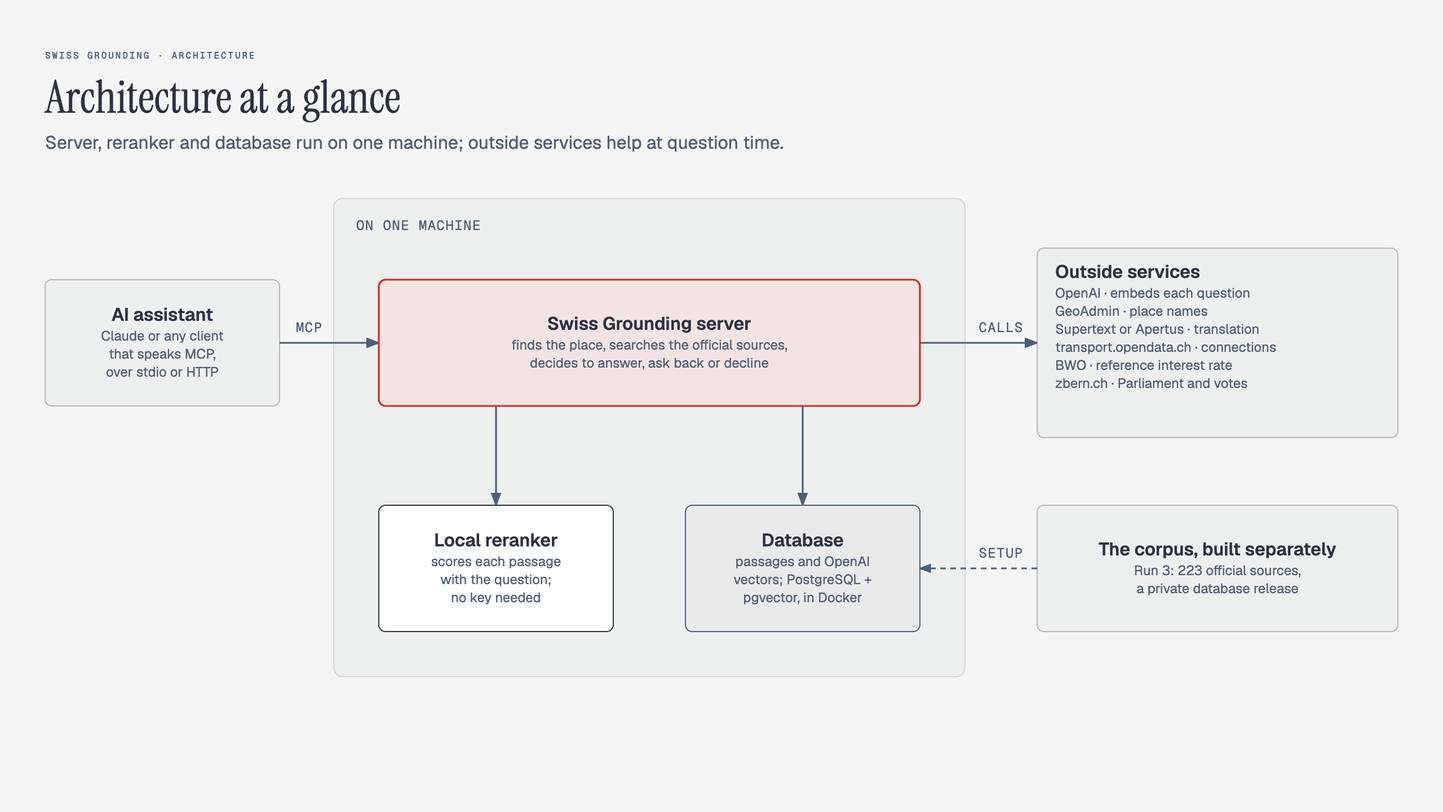
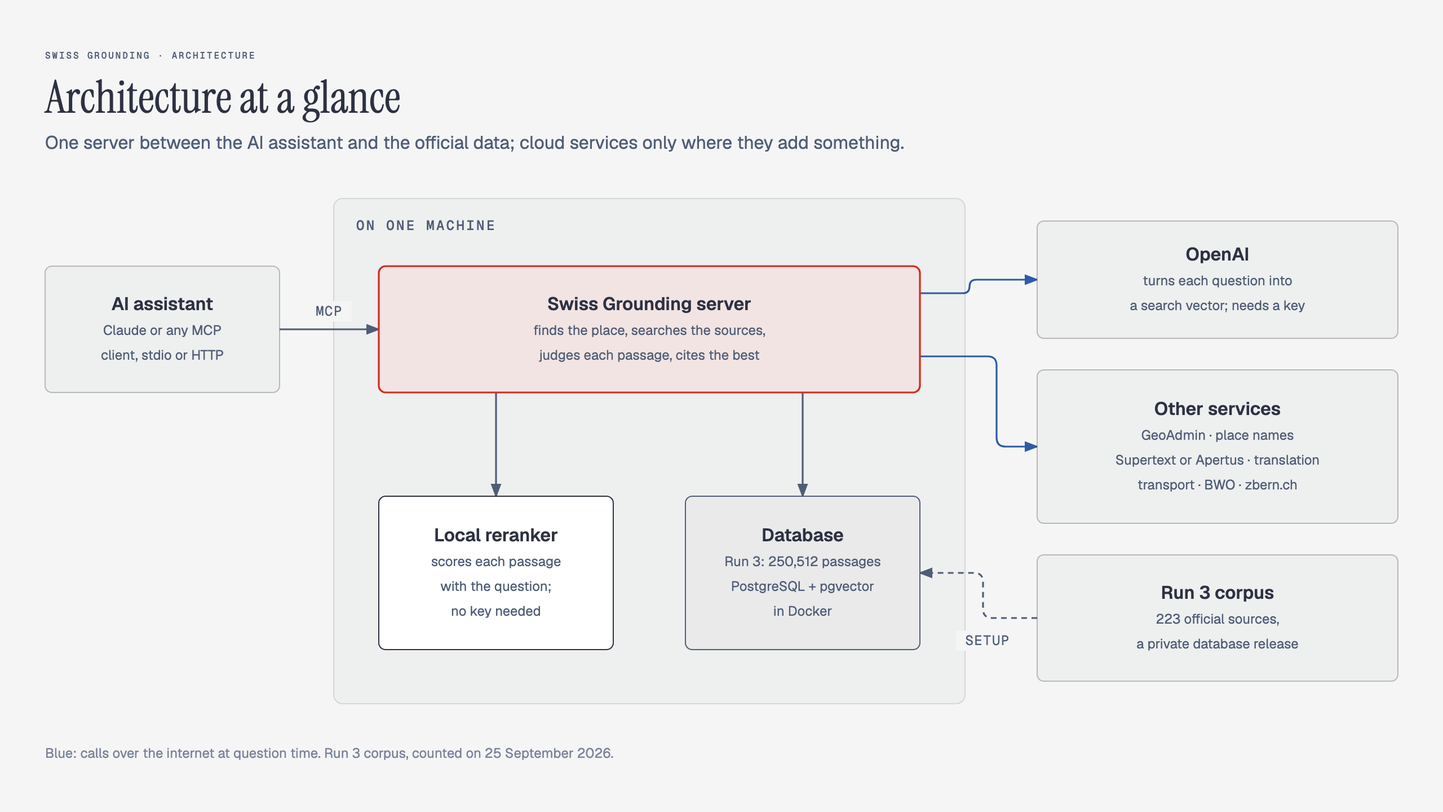
docs: jury slides for architecture, deployment and one question end to end
Slide 17 is redrawn for the Run 3 setup (OpenAI question vectors, local
reranker, Apertus as a translation option). Slide 23 shows where each
part runs: laptop, private GitHub release, cloud APIs. Slide 24 follows
challenge question 2 from the user's words to the cited vd.ch passage.

Claude-Session: https://claude.ai/code/session_019M3EyHsViiEBMstvHmv2sU

diff --git a/presentation/diagrams/17-architecture.html b/presentation/diagrams/17-architecture.html
@@ -43,71 +43,56 @@
     <p class="eyebrow">Swiss Grounding · jury deck · slide 17</p>
 <svg viewBox="0 0 1280 720" xmlns="http://www.w3.org/2000/svg" role="img" aria-labelledby="architecture-title architecture-desc">
 <title id="architecture-title">Architecture at a glance</title>
-<desc id="architecture-desc">Any AI assistant connects over MCP to the Swiss Grounding server, which runs on one machine with a local reranker and a PostgreSQL database in Docker; at question time it calls outside services, OpenAI to embed each question among them; the Run 3 corpus is built separately and restored from a private database release.</desc>
-<defs>
-<marker id="arrow" markerWidth="8" markerHeight="6" refX="7" refY="3" orient="auto"><polygon points="0 0, 8 3, 0 6" fill="#4f5d75"/></marker>
-<marker id="arrow-accent" markerWidth="8" markerHeight="6" refX="7" refY="3" orient="auto"><polygon points="0 0, 8 3, 0 6" fill="#d52b1e"/></marker>
-<marker id="arrow-link" markerWidth="8" markerHeight="6" refX="7" refY="3" orient="auto"><polygon points="0 0, 8 3, 0 6" fill="#2e5aa8"/></marker>
-</defs>
+<desc id="architecture-desc">The AI assistant talks to the Swiss Grounding server over MCP; on the same machine the server uses a local reranker and a PostgreSQL database holding the Run 3 corpus; over the internet it asks OpenAI for question vectors and uses GeoAdmin, Supertext or Apertus, transport, BWO and zbern.ch; the corpus arrives once from a private release.</desc>
+<defs><marker id="arrow" markerWidth="8" markerHeight="6" refX="7" refY="3" orient="auto"><polygon points="0 0, 8 3, 0 6" fill="#4f5d75"/></marker><marker id="arrow-accent" markerWidth="8" markerHeight="6" refX="7" refY="3" orient="auto"><polygon points="0 0, 8 3, 0 6" fill="#d52b1e"/></marker><marker id="arrow-link" markerWidth="8" markerHeight="6" refX="7" refY="3" orient="auto"><polygon points="0 0, 8 3, 0 6" fill="#2e5aa8"/></marker></defs>
 <rect width="100%" height="100%" fill="#f5f5f5"/>
-<!-- zones -->
-<rect x="296" y="176" width="560" height="424" rx="8" fill="rgba(45,49,66,0.03)" stroke="rgba(45,49,66,0.18)" stroke-width="0.8"/>
-<!-- arrows -->
-<path d="M 248,304 L 336,304" fill="none" stroke="#4f5d75" stroke-width="1.6" marker-end="url(#arrow)"/>
-<path d="M 440,360 L 440,448" fill="none" stroke="#4f5d75" stroke-width="1.6" marker-end="url(#arrow)"/>
-<path d="M 712,360 L 712,448" fill="none" stroke="#4f5d75" stroke-width="1.6" marker-end="url(#arrow)"/>
-<path d="M 816,304 L 920,304" fill="none" stroke="#4f5d75" stroke-width="1.6" marker-end="url(#arrow)"/>
-<path d="M 920,504 L 816,504" fill="none" stroke="#4f5d75" stroke-width="1.4" stroke-dasharray="5,4" marker-end="url(#arrow)"/>
-<!-- labels -->
-<rect x="258.4" y="282" width="32" height="16" rx="2" fill="#f5f5f5"/>
-<text x="274.4" y="294.3" fill="#4f5d75" font-size="12" font-family="'Geist Mono', monospace" text-anchor="middle" letter-spacing="0.06em">MCP</text>
-<rect x="862" y="282" width="52" height="16" rx="2" fill="#f5f5f5"/>
-<text x="888" y="294.3" fill="#4f5d75" font-size="12" font-family="'Geist Mono', monospace" text-anchor="middle" letter-spacing="0.06em">CALLS</text>
-<rect x="862" y="482" width="52" height="16" rx="2" fill="#f5f5f5"/>
-<text x="888" y="494.3" fill="#4f5d75" font-size="12" font-family="'Geist Mono', monospace" text-anchor="middle" letter-spacing="0.06em">SETUP</text>
-<!-- nodes -->
-<rect x="40" y="248" width="208" height="112" rx="6" fill="#f5f5f5"/>
-<rect x="40" y="248" width="208" height="112" rx="6" fill="rgba(45,49,66,0.03)" stroke="rgba(45,49,66,0.30)" stroke-width="1"/>
-<text x="144" y="284.4" fill="#2d3142" font-size="16" font-weight="600" font-family="'Geist', sans-serif" text-anchor="middle">AI assistant</text>
-<text x="144" y="302" fill="#4f5d75" font-size="12" font-family="'Geist', sans-serif" text-anchor="middle">Claude or any client</text>
-<text x="144" y="318" fill="#4f5d75" font-size="12" font-family="'Geist', sans-serif" text-anchor="middle">that speaks MCP,</text>
-<text x="144" y="334" fill="#4f5d75" font-size="12" font-family="'Geist', sans-serif" text-anchor="middle">over stdio or HTTP</text>
-<rect x="336" y="248" width="480" height="112" rx="6" fill="#f5f5f5"/>
-<rect x="336" y="248" width="480" height="112" rx="6" fill="rgba(213,43,30,0.08)" stroke="#d52b1e" stroke-width="1.6"/>
-<text x="576" y="292.4" fill="#2d3142" font-size="16" font-weight="600" font-family="'Geist', sans-serif" text-anchor="middle">Swiss Grounding server</text>
-<text x="576" y="310" fill="#4f5d75" font-size="12" font-family="'Geist', sans-serif" text-anchor="middle">finds the place, searches the official sources,</text>
-<text x="576" y="326" fill="#4f5d75" font-size="12" font-family="'Geist', sans-serif" text-anchor="middle">decides to answer, ask back or decline</text>
-<rect x="336" y="448" width="208" height="112" rx="6" fill="#f5f5f5"/>
-<rect x="336" y="448" width="208" height="112" rx="6" fill="#ffffff" stroke="#2d3142" stroke-width="1"/>
-<text x="440" y="484.4" fill="#2d3142" font-size="16" font-weight="600" font-family="'Geist', sans-serif" text-anchor="middle">Local reranker</text>
-<text x="440" y="502" fill="#4f5d75" font-size="12" font-family="'Geist', sans-serif" text-anchor="middle">scores each passage</text>
-<text x="440" y="518" fill="#4f5d75" font-size="12" font-family="'Geist', sans-serif" text-anchor="middle">with the question;</text>
-<text x="440" y="534" fill="#4f5d75" font-size="12" font-family="'Geist', sans-serif" text-anchor="middle">no key needed</text>
-<rect x="608" y="448" width="208" height="112" rx="6" fill="#f5f5f5"/>
-<rect x="608" y="448" width="208" height="112" rx="6" fill="rgba(45,49,66,0.05)" stroke="#4f5d75" stroke-width="1"/>
-<text x="712" y="484.4" fill="#2d3142" font-size="16" font-weight="600" font-family="'Geist', sans-serif" text-anchor="middle">Database</text>
-<text x="712" y="502" fill="#4f5d75" font-size="12" font-family="'Geist', sans-serif" text-anchor="middle">passages and OpenAI</text>
-<text x="712" y="518" fill="#4f5d75" font-size="12" font-family="'Geist', sans-serif" text-anchor="middle">vectors; PostgreSQL +</text>
-<text x="712" y="534" fill="#4f5d75" font-size="12" font-family="'Geist', sans-serif" text-anchor="middle">pgvector, in Docker</text>
-<rect x="920" y="220" width="320" height="168" rx="6" fill="#f5f5f5"/>
-<rect x="920" y="220" width="320" height="168" rx="6" fill="rgba(45,49,66,0.03)" stroke="rgba(45,49,66,0.30)" stroke-width="1"/>
-<text x="936" y="246.4" fill="#2d3142" font-size="16" font-weight="600" font-family="'Geist', sans-serif" text-anchor="start">Outside services</text>
-<text x="936" y="264" fill="#4f5d75" font-size="12" font-family="'Geist', sans-serif" text-anchor="start">OpenAI · embeds each question</text>
-<text x="936" y="280" fill="#4f5d75" font-size="12" font-family="'Geist', sans-serif" text-anchor="start">GeoAdmin · place names</text>
-<text x="936" y="296" fill="#4f5d75" font-size="12" font-family="'Geist', sans-serif" text-anchor="start">Supertext or Apertus · translation</text>
-<text x="936" y="312" fill="#4f5d75" font-size="12" font-family="'Geist', sans-serif" text-anchor="start">transport.opendata.ch · connections</text>
-<text x="936" y="328" fill="#4f5d75" font-size="12" font-family="'Geist', sans-serif" text-anchor="start">BWO · reference interest rate</text>
-<text x="936" y="344" fill="#4f5d75" font-size="12" font-family="'Geist', sans-serif" text-anchor="start">zbern.ch · Parliament and votes</text>
-<rect x="920" y="448" width="320" height="112" rx="6" fill="#f5f5f5"/>
-<rect x="920" y="448" width="320" height="112" rx="6" fill="rgba(45,49,66,0.03)" stroke="rgba(45,49,66,0.30)" stroke-width="1"/>
-<text x="1080" y="492.4" fill="#2d3142" font-size="16" font-weight="600" font-family="'Geist', sans-serif" text-anchor="middle">The corpus, built separately</text>
-<text x="1080" y="510" fill="#4f5d75" font-size="12" font-family="'Geist', sans-serif" text-anchor="middle">Run 3: 223 official sources,</text>
-<text x="1080" y="526" fill="#4f5d75" font-size="12" font-family="'Geist', sans-serif" text-anchor="middle">a private database release</text>
-<!-- annotations -->
-<text x="40" y="52" fill="#4f5d75" font-size="8" font-family="'Geist Mono', monospace" font-weight="500" letter-spacing="0.18em">SWISS GROUNDING · ARCHITECTURE</text>
-<text x="40" y="100" fill="#2d3142" font-size="40" font-family="'Instrument Serif', 'Noto Serif', serif">Architecture at a glance</text>
-<text x="40" y="132" fill="#4f5d75" font-size="16" font-family="'Geist', sans-serif">Server, reranker and database run on one machine; outside services help at question time.</text>
-<text x="316" y="204" fill="#4f5d75" font-size="12" font-family="'Geist Mono', monospace" letter-spacing="0.06em">ON ONE MACHINE</text>
+<rect x="296" y="176" width="560" height="448" rx="8" fill="rgba(45,49,66,0.03)" stroke="rgba(45,49,66,0.18)" stroke-width="0.8"/>
+<text x="316" y="204" fill="#4f5d75" font-size="12" font-weight="500" font-family="'Geist Mono', monospace" text-anchor="start" letter-spacing="0.14em">ON ONE MACHINE</text>
+<path d="M 248,292 L 336,292" fill="none" stroke="#4f5d75" stroke-width="1.6" marker-end="url(#arrow)"/>
+<path d="M 440,348 L 440,440" fill="none" stroke="#4f5d75" stroke-width="1.6" marker-end="url(#arrow)"/>
+<path d="M 712,348 L 712,440" fill="none" stroke="#4f5d75" stroke-width="1.6" marker-end="url(#arrow)"/>
+<path d="M 816,260 L 854.0,260.0 Q 860,260 860.0,254.0 L 860.0,254.0 Q 860,248 866.0,248.0 L 920,248" fill="none" stroke="#2e5aa8" stroke-width="1.6" marker-end="url(#arrow-link)"/>
+<path d="M 816,316 L 876.0,316.0 Q 884,316 884.0,324.0 L 884.0,388.0 Q 884,396 892.0,396.0 L 920,396" fill="none" stroke="#2e5aa8" stroke-width="1.6" marker-end="url(#arrow-link)"/>
+<path d="M 920,548 L 880.0,548.0 Q 872,548 872.0,540.0 L 872.0,516.0 Q 872,508 864.0,508.0 L 816,508" fill="none" stroke="#4f5d75" stroke-width="1.6" stroke-dasharray="5,4" marker-end="url(#arrow)"/>
+<rect x="272.0" y="267" width="40" height="18" rx="2" fill="#f5f5f5"/>
+<text x="292" y="280" fill="#4f5d75" font-size="12" font-weight="400" font-family="'Geist Mono', monospace" text-anchor="middle" letter-spacing="0.06em">MCP</text>
+<rect x="848.0" y="559" width="56" height="18" rx="2" fill="#f5f5f5"/>
+<text x="876" y="572" fill="#4f5d75" font-size="12" font-weight="400" font-family="'Geist Mono', monospace" text-anchor="middle" letter-spacing="0.06em">SETUP</text>
+<rect x="40" y="236" width="208" height="112" rx="6" fill="#f5f5f5"/><rect x="40" y="236" width="208" height="112" rx="6" fill="rgba(45,49,66,0.03)" stroke="rgba(45,49,66,0.30)" stroke-width="1"/>
+<text x="144.0" y="275.0" fill="#2d3142" font-size="16" font-weight="600" font-family="'Geist', sans-serif" text-anchor="middle">AI assistant</text>
+<text x="144.0" y="297.0" fill="#4f5d75" font-size="12" font-family="'Geist', sans-serif" text-anchor="middle">Claude or any MCP</text>
+<text x="144.0" y="319.0" fill="#4f5d75" font-size="12" font-family="'Geist', sans-serif" text-anchor="middle">client, stdio or HTTP</text>
+<rect x="336" y="236" width="480" height="112" rx="6" fill="#f5f5f5"/><rect x="336" y="236" width="480" height="112" rx="6" fill="rgba(213,43,30,0.08)" stroke="#d52b1e" stroke-width="1.6"/>
+<text x="576.0" y="275.0" fill="#2d3142" font-size="16" font-weight="600" font-family="'Geist', sans-serif" text-anchor="middle">Swiss Grounding server</text>
+<text x="576.0" y="297.0" fill="#4f5d75" font-size="12" font-family="'Geist', sans-serif" text-anchor="middle">finds the place, searches the sources,</text>
+<text x="576.0" y="319.0" fill="#4f5d75" font-size="12" font-family="'Geist', sans-serif" text-anchor="middle">judges each passage, cites the best</text>
+<rect x="336" y="440" width="208" height="136" rx="6" fill="#f5f5f5"/><rect x="336" y="440" width="208" height="136" rx="6" fill="#ffffff" stroke="#2d3142" stroke-width="1"/>
+<text x="440.0" y="480.0" fill="#2d3142" font-size="16" font-weight="600" font-family="'Geist', sans-serif" text-anchor="middle">Local reranker</text>
+<text x="440.0" y="502.0" fill="#4f5d75" font-size="12" font-family="'Geist', sans-serif" text-anchor="middle">scores each passage</text>
+<text x="440.0" y="524.0" fill="#4f5d75" font-size="12" font-family="'Geist', sans-serif" text-anchor="middle">with the question;</text>
+<text x="440.0" y="546.0" fill="#4f5d75" font-size="12" font-family="'Geist', sans-serif" text-anchor="middle">no key needed</text>
+<rect x="608" y="440" width="208" height="136" rx="6" fill="#f5f5f5"/><rect x="608" y="440" width="208" height="136" rx="6" fill="rgba(45,49,66,0.05)" stroke="#4f5d75" stroke-width="1"/>
+<text x="712.0" y="480.0" fill="#2d3142" font-size="16" font-weight="600" font-family="'Geist', sans-serif" text-anchor="middle">Database</text>
+<text x="712.0" y="502.0" fill="#4f5d75" font-size="12" font-family="'Geist', sans-serif" text-anchor="middle">Run 3: 250,512 passages</text>
+<text x="712.0" y="524.0" fill="#4f5d75" font-size="12" font-family="'Geist', sans-serif" text-anchor="middle">PostgreSQL + pgvector</text>
+<text x="712.0" y="546.0" fill="#4f5d75" font-size="12" font-family="'Geist', sans-serif" text-anchor="middle">in Docker</text>
+<rect x="920" y="196" width="320" height="104" rx="6" fill="#f5f5f5"/><rect x="920" y="196" width="320" height="104" rx="6" fill="rgba(45,49,66,0.03)" stroke="rgba(45,49,66,0.30)" stroke-width="1"/>
+<text x="1080.0" y="231.0" fill="#2d3142" font-size="16" font-weight="600" font-family="'Geist', sans-serif" text-anchor="middle">OpenAI</text>
+<text x="1080.0" y="253.0" fill="#4f5d75" font-size="12" font-family="'Geist', sans-serif" text-anchor="middle">turns each question into</text>
+<text x="1080.0" y="275.0" fill="#4f5d75" font-size="12" font-family="'Geist', sans-serif" text-anchor="middle">a search vector; needs a key</text>
+<rect x="920" y="328" width="320" height="136" rx="6" fill="#f5f5f5"/><rect x="920" y="328" width="320" height="136" rx="6" fill="rgba(45,49,66,0.03)" stroke="rgba(45,49,66,0.30)" stroke-width="1"/>
+<text x="1080.0" y="368.0" fill="#2d3142" font-size="16" font-weight="600" font-family="'Geist', sans-serif" text-anchor="middle">Other services</text>
+<text x="1080.0" y="390.0" fill="#4f5d75" font-size="12" font-family="'Geist', sans-serif" text-anchor="middle">GeoAdmin · place names</text>
+<text x="1080.0" y="412.0" fill="#4f5d75" font-size="12" font-family="'Geist', sans-serif" text-anchor="middle">Supertext or Apertus · translation</text>
+<text x="1080.0" y="434.0" fill="#4f5d75" font-size="12" font-family="'Geist', sans-serif" text-anchor="middle">transport · BWO · zbern.ch</text>
+<rect x="920" y="492" width="320" height="112" rx="6" fill="#f5f5f5"/><rect x="920" y="492" width="320" height="112" rx="6" fill="rgba(45,49,66,0.03)" stroke="rgba(45,49,66,0.30)" stroke-width="1"/>
+<text x="1080.0" y="531.0" fill="#2d3142" font-size="16" font-weight="600" font-family="'Geist', sans-serif" text-anchor="middle">Run 3 corpus</text>
+<text x="1080.0" y="553.0" fill="#4f5d75" font-size="12" font-family="'Geist', sans-serif" text-anchor="middle">223 official sources,</text>
+<text x="1080.0" y="575.0" fill="#4f5d75" font-size="12" font-family="'Geist', sans-serif" text-anchor="middle">a private database release</text>
+<text x="40" y="52" fill="#4f5d75" font-size="8" font-weight="500" font-family="'Geist Mono', monospace" text-anchor="start" letter-spacing="0.18em">SWISS GROUNDING · ARCHITECTURE</text>
+<text x="40" y="100" fill="#2d3142" font-size="40" font-weight="400" font-family="'Instrument Serif', 'Noto Serif', serif" text-anchor="start">Architecture at a glance</text>
+<text x="40" y="132" fill="#4f5d75" font-size="16" font-weight="400" font-family="'Geist', sans-serif" text-anchor="start">One server between the AI assistant and the official data; cloud services only where they add something.</text>
+<text x="40" y="672" fill="#7a8399" font-size="12" font-weight="400" font-family="'Geist', sans-serif" text-anchor="start">Blue: calls over the internet at question time. Run 3 corpus, counted on 25 September 2026.</text>
 </svg>
   </main>
 </body>

diff --git a/presentation/diagrams/23-deployment.html b/presentation/diagrams/23-deployment.html
@@ -1,0 +1,96 @@
+<!DOCTYPE html>
+<html lang="en">
+<head>
+  <meta charset="UTF-8">
+  <meta name="viewport" content="width=device-width, initial-scale=1.0">
+  <title>Where it runs · Swiss Grounding</title>
+  <link href="https://fonts.googleapis.com/css2?family=Instrument+Serif:ital@0;1&family=Geist:wght@400;500;600&family=Geist+Mono:wght@400;500;600&family=Noto+Serif:ital@0;1&display=swap" rel="stylesheet">
+  <style>
+    *, *::before, *::after { box-sizing: border-box; margin: 0; padding: 0; }
+    :root {
+      --color-paper: #f5f5f5;
+      --color-ink: #2d3142;
+      --color-muted: #4f5d75;
+      --color-soft: #7a8399;
+      --color-accent: #d52b1e;
+      --color-rule: rgba(45,49,66,0.12);
+      --font-sans: 'Geist', system-ui, sans-serif;
+      --font-serif: 'Instrument Serif', 'Noto Serif', serif;
+      --font-mono: 'Geist Mono', ui-monospace, monospace;
+    }
+    body { font-family: var(--font-sans); background: var(--color-paper); color: var(--color-ink);
+           min-height: 100vh; display: flex; justify-content: center; padding: 3rem 2rem; }
+    .frame { max-width: 1280px; width: 100%; }
+    .eyebrow { font-family: var(--font-mono); font-size: 0.66rem; font-weight: 500; letter-spacing: 0.18em;
+               text-transform: uppercase; color: var(--color-muted); margin-bottom: 0.5rem; }
+    h1 { font-family: var(--font-serif); font-size: clamp(1.5rem, 2.4vw + 0.75rem, 2rem); font-weight: 400;
+         letter-spacing: -0.02em; line-height: 1.15; margin-bottom: 0.75rem; }
+    .lede { max-width: 68ch; color: var(--color-muted); line-height: 1.5; margin-bottom: 1.5rem; }
+    svg { width: 100%; min-width: 900px; display: block; }
+    footer { margin-top: 1.25rem; padding-top: 0.75rem; border-top: 1px solid var(--color-rule);
+             font-family: var(--font-mono); font-size: 0.7rem; color: var(--color-soft); line-height: 1.7; }
+    footer code { font-family: var(--font-mono); color: var(--color-muted); }
+    table { margin-top: 1.5rem; border-collapse: collapse; font-size: 0.8rem; min-width: 60%; }
+    caption { text-align: left; font-family: var(--font-mono); font-size: 0.66rem; letter-spacing: 0.14em;
+              text-transform: uppercase; color: var(--color-soft); padding-bottom: 0.5rem; }
+    th, td { text-align: left; padding: 0.35rem 1rem 0.35rem 0; border-bottom: 1px solid var(--color-rule); }
+    th { font-weight: 600; }
+    td:nth-child(n+3), th:nth-child(n+3) { text-align: right; font-variant-numeric: tabular-nums; }
+  </style>
+</head>
+<body>
+  <main class="frame">
+    <p class="eyebrow">Swiss Grounding · jury deck · slide 23</p>
+<svg viewBox="0 0 1280 720" xmlns="http://www.w3.org/2000/svg" role="img" aria-labelledby="deployment-title deployment-desc">
+<title id="deployment-title">Where it runs</title>
+<desc id="deployment-desc">On the laptop the AI assistant app starts the swiss-grounding server over stdio, which queries a PostgreSQL container on port 5433 holding the Run 3 database; the database is downloaded once from a private GitHub release, and at question time the server calls OpenAI for question vectors and GeoAdmin, Supertext or Apertus, transport, BWO and zbern.ch.</desc>
+<defs><marker id="arrow" markerWidth="8" markerHeight="6" refX="7" refY="3" orient="auto"><polygon points="0 0, 8 3, 0 6" fill="#4f5d75"/></marker><marker id="arrow-accent" markerWidth="8" markerHeight="6" refX="7" refY="3" orient="auto"><polygon points="0 0, 8 3, 0 6" fill="#d52b1e"/></marker><marker id="arrow-link" markerWidth="8" markerHeight="6" refX="7" refY="3" orient="auto"><polygon points="0 0, 8 3, 0 6" fill="#2e5aa8"/></marker></defs>
+<rect width="100%" height="100%" fill="#f5f5f5"/>
+<rect x="40" y="176" width="640" height="440" rx="8" fill="rgba(45,49,66,0.03)" stroke="rgba(45,49,66,0.18)" stroke-width="0.8"/>
+<text x="60" y="204" fill="#4f5d75" font-size="12" font-weight="500" font-family="'Geist Mono', monospace" text-anchor="start" letter-spacing="0.14em">YOUR LAPTOP</text>
+<rect x="760" y="176" width="480" height="144" rx="8" fill="rgba(45,49,66,0.03)" stroke="rgba(45,49,66,0.18)" stroke-width="0.8"/>
+<text x="780" y="204" fill="#4f5d75" font-size="12" font-weight="500" font-family="'Geist Mono', monospace" text-anchor="start" letter-spacing="0.14em">GITHUB, PRIVATE</text>
+<rect x="760" y="344" width="480" height="272" rx="8" fill="rgba(45,49,66,0.03)" stroke="rgba(45,49,66,0.18)" stroke-width="0.8"/>
+<text x="780" y="372" fill="#4f5d75" font-size="12" font-weight="500" font-family="'Geist Mono', monospace" text-anchor="start" letter-spacing="0.14em">CLOUD APIS</text>
+<path d="M 320,292 L 392,292" fill="none" stroke="#4f5d75" stroke-width="1.6" marker-end="url(#arrow)"/>
+<path d="M 524,348 L 524,436" fill="none" stroke="#4f5d75" stroke-width="1.6" marker-end="url(#arrow)"/>
+<path d="M 784,260 L 760.0,260.0 Q 752,260 752.0,268.0 L 752.0,588.0 Q 752,596 744.0,596.0 L 608.0,596.0 Q 600,596 600.0,588.0 L 600,572" fill="none" stroke="#4f5d75" stroke-width="1.6" stroke-dasharray="5,4" marker-end="url(#arrow)"/>
+<path d="M 656,312 L 704.0,312.0 Q 712,312 712.0,320.0 L 712.0,420.0 Q 712,428 720.0,428.0 L 784,428" fill="none" stroke="#2e5aa8" stroke-width="1.6" marker-end="url(#arrow-link)"/>
+<path d="M 656,332 L 720.0,332.0 Q 728,332 728.0,340.0 L 728.0,536.0 Q 728,544 736.0,544.0 L 784,544" fill="none" stroke="#2e5aa8" stroke-width="1.6" marker-end="url(#arrow-link)"/>
+<rect x="328.0" y="267" width="56" height="18" rx="2" fill="#f5f5f5"/>
+<text x="356" y="280" fill="#4f5d75" font-size="12" font-weight="400" font-family="'Geist Mono', monospace" text-anchor="middle" letter-spacing="0.06em">STDIO</text>
+<rect x="552.0" y="383" width="40" height="18" rx="2" fill="#f5f5f5"/>
+<text x="572" y="396" fill="#4f5d75" font-size="12" font-weight="400" font-family="'Geist Mono', monospace" text-anchor="middle" letter-spacing="0.06em">SQL</text>
+<rect x="624.0" y="575" width="104" height="18" rx="2" fill="#f5f5f5"/>
+<text x="676" y="588" fill="#4f5d75" font-size="12" font-weight="400" font-family="'Geist Mono', monospace" text-anchor="middle" letter-spacing="0.06em">SETUP, ONCE</text>
+<rect x="64" y="236" width="256" height="112" rx="6" fill="#f5f5f5"/><rect x="64" y="236" width="256" height="112" rx="6" fill="rgba(45,49,66,0.03)" stroke="rgba(45,49,66,0.30)" stroke-width="1"/>
+<text x="192.0" y="275.0" fill="#2d3142" font-size="16" font-weight="600" font-family="'Geist', sans-serif" text-anchor="middle">AI assistant app</text>
+<text x="192.0" y="297.0" fill="#4f5d75" font-size="12" font-family="'Geist', sans-serif" text-anchor="middle">Claude Desktop or Code;</text>
+<text x="192.0" y="319.0" fill="#4f5d75" font-size="12" font-family="'Geist', sans-serif" text-anchor="middle">starts the server</text>
+<rect x="392" y="236" width="264" height="112" rx="6" fill="#f5f5f5"/><rect x="392" y="236" width="264" height="112" rx="6" fill="rgba(213,43,30,0.08)" stroke="#d52b1e" stroke-width="1.6"/>
+<text x="524.0" y="275.0" fill="#2d3142" font-size="16" font-weight="600" font-family="'Geist', sans-serif" text-anchor="middle">swiss-grounding serve</text>
+<text x="524.0" y="297.0" fill="#4f5d75" font-size="12" font-family="'Geist', sans-serif" text-anchor="middle">Python via uv, reranker</text>
+<text x="524.0" y="319.0" fill="#4f5d75" font-size="12" font-family="'Geist', sans-serif" text-anchor="middle">model in memory</text>
+<rect x="392" y="436" width="264" height="136" rx="6" fill="#f5f5f5"/><rect x="392" y="436" width="264" height="136" rx="6" fill="rgba(45,49,66,0.05)" stroke="#4f5d75" stroke-width="1"/>
+<text x="524.0" y="476.0" fill="#2d3142" font-size="16" font-weight="600" font-family="'Geist', sans-serif" text-anchor="middle">Database container</text>
+<text x="524.0" y="498.0" fill="#4f5d75" font-size="12" font-family="'Geist', sans-serif" text-anchor="middle">Docker · port 5433</text>
+<text x="524.0" y="520.0" fill="#4f5d75" font-size="12" font-family="'Geist', sans-serif" text-anchor="middle">PostgreSQL 16 + pgvector</text>
+<text x="524.0" y="542.0" fill="#4f5d75" font-size="12" font-family="'Geist', sans-serif" text-anchor="middle">Run 3 database</text>
+<rect x="784" y="220" width="432" height="80" rx="6" fill="#f5f5f5"/><rect x="784" y="220" width="432" height="80" rx="6" fill="rgba(45,49,66,0.03)" stroke="rgba(45,49,66,0.30)" stroke-width="1"/>
+<text x="1000.0" y="254.0" fill="#2d3142" font-size="16" font-weight="600" font-family="'Geist', sans-serif" text-anchor="middle">Run 3 release</text>
+<text x="1000.0" y="276.0" fill="#4f5d75" font-size="12" font-family="'Geist', sans-serif" text-anchor="middle">22 parts, 3.2 GB; setup downloads once</text>
+<rect x="784" y="388" width="432" height="80" rx="6" fill="#f5f5f5"/><rect x="784" y="388" width="432" height="80" rx="6" fill="rgba(45,49,66,0.03)" stroke="rgba(45,49,66,0.30)" stroke-width="1"/>
+<text x="1000.0" y="422.0" fill="#2d3142" font-size="16" font-weight="600" font-family="'Geist', sans-serif" text-anchor="middle">OpenAI</text>
+<text x="1000.0" y="444.0" fill="#4f5d75" font-size="12" font-family="'Geist', sans-serif" text-anchor="middle">one call per question: its vector</text>
+<rect x="784" y="492" width="432" height="104" rx="6" fill="#f5f5f5"/><rect x="784" y="492" width="432" height="104" rx="6" fill="rgba(45,49,66,0.03)" stroke="rgba(45,49,66,0.30)" stroke-width="1"/>
+<text x="1000.0" y="527.0" fill="#2d3142" font-size="16" font-weight="600" font-family="'Geist', sans-serif" text-anchor="middle">Place names, translation, lookups</text>
+<text x="1000.0" y="549.0" fill="#4f5d75" font-size="12" font-family="'Geist', sans-serif" text-anchor="middle">GeoAdmin · Supertext or Apertus</text>
+<text x="1000.0" y="571.0" fill="#4f5d75" font-size="12" font-family="'Geist', sans-serif" text-anchor="middle">transport · BWO · zbern.ch</text>
+<text x="40" y="52" fill="#4f5d75" font-size="8" font-weight="500" font-family="'Geist Mono', monospace" text-anchor="start" letter-spacing="0.18em">SWISS GROUNDING · DEPLOYMENT</text>
+<text x="40" y="100" fill="#2d3142" font-size="40" font-weight="400" font-family="'Instrument Serif', 'Noto Serif', serif" text-anchor="start">Where it runs</text>
+<text x="40" y="132" fill="#4f5d75" font-size="16" font-weight="400" font-family="'Geist', sans-serif" text-anchor="start">Everything runs on one laptop; GitHub holds the database once, the cloud answers a few calls per question.</text>
+<text x="40" y="672" fill="#7a8399" font-size="12" font-weight="400" font-family="'Geist', sans-serif" text-anchor="start">Needs Docker with 6 GB memory, about 15 GB disk, uv, gh and an OpenAI key. Sizes of the Run 3 release, 25 September 2026.</text>
+</svg>
+  </main>
+</body>
+</html>

diff --git a/presentation/diagrams/24-end-to-end.html b/presentation/diagrams/24-end-to-end.html
@@ -1,0 +1,99 @@
+<!DOCTYPE html>
+<html lang="en">
+<head>
+  <meta charset="UTF-8">
+  <meta name="viewport" content="width=device-width, initial-scale=1.0">
+  <title>One question, end to end · Swiss Grounding</title>
+  <link href="https://fonts.googleapis.com/css2?family=Instrument+Serif:ital@0;1&family=Geist:wght@400;500;600&family=Geist+Mono:wght@400;500;600&family=Noto+Serif:ital@0;1&display=swap" rel="stylesheet">
+  <style>
+    *, *::before, *::after { box-sizing: border-box; margin: 0; padding: 0; }
+    :root {
+      --color-paper: #f5f5f5;
+      --color-ink: #2d3142;
+      --color-muted: #4f5d75;
+      --color-soft: #7a8399;
+      --color-accent: #d52b1e;
+      --color-rule: rgba(45,49,66,0.12);
+      --font-sans: 'Geist', system-ui, sans-serif;
+      --font-serif: 'Instrument Serif', 'Noto Serif', serif;
+      --font-mono: 'Geist Mono', ui-monospace, monospace;
+    }
+    body { font-family: var(--font-sans); background: var(--color-paper); color: var(--color-ink);
+           min-height: 100vh; display: flex; justify-content: center; padding: 3rem 2rem; }
+    .frame { max-width: 1280px; width: 100%; }
+    .eyebrow { font-family: var(--font-mono); font-size: 0.66rem; font-weight: 500; letter-spacing: 0.18em;
+               text-transform: uppercase; color: var(--color-muted); margin-bottom: 0.5rem; }
+    h1 { font-family: var(--font-serif); font-size: clamp(1.5rem, 2.4vw + 0.75rem, 2rem); font-weight: 400;
+         letter-spacing: -0.02em; line-height: 1.15; margin-bottom: 0.75rem; }
+    .lede { max-width: 68ch; color: var(--color-muted); line-height: 1.5; margin-bottom: 1.5rem; }
+    svg { width: 100%; min-width: 900px; display: block; }
+    footer { margin-top: 1.25rem; padding-top: 0.75rem; border-top: 1px solid var(--color-rule);
+             font-family: var(--font-mono); font-size: 0.7rem; color: var(--color-soft); line-height: 1.7; }
+    footer code { font-family: var(--font-mono); color: var(--color-muted); }
+    table { margin-top: 1.5rem; border-collapse: collapse; font-size: 0.8rem; min-width: 60%; }
+    caption { text-align: left; font-family: var(--font-mono); font-size: 0.66rem; letter-spacing: 0.14em;
+              text-transform: uppercase; color: var(--color-soft); padding-bottom: 0.5rem; }
+    th, td { text-align: left; padding: 0.35rem 1rem 0.35rem 0; border-bottom: 1px solid var(--color-rule); }
+    th { font-weight: 600; }
+    td:nth-child(n+3), th:nth-child(n+3) { text-align: right; font-variant-numeric: tabular-nums; }
+  </style>
+</head>
+<body>
+  <main class="frame">
+    <p class="eyebrow">Swiss Grounding · jury deck · slide 24</p>
+<svg viewBox="0 0 1280 720" xmlns="http://www.w3.org/2000/svg" role="img" aria-labelledby="end-to-end-title end-to-end-desc">
+<title id="end-to-end-title">One question, end to end</title>
+<desc id="end-to-end-desc">A sequence for the Vaud driving-licence question: the user asks the assistant, which calls swiss_search with the place Vaud; the server resolves the place, gets the question&#x27;s vector from OpenAI, searches Vaud and Switzerland in the database, reranks the 30 candidates locally and returns the vd.ch passage with its link, which the assistant quotes in its answer.</desc>
+<defs><marker id="arrow" markerWidth="8" markerHeight="6" refX="7" refY="3" orient="auto"><polygon points="0 0, 8 3, 0 6" fill="#4f5d75"/></marker><marker id="arrow-accent" markerWidth="8" markerHeight="6" refX="7" refY="3" orient="auto"><polygon points="0 0, 8 3, 0 6" fill="#d52b1e"/></marker><marker id="arrow-link" markerWidth="8" markerHeight="6" refX="7" refY="3" orient="auto"><polygon points="0 0, 8 3, 0 6" fill="#2e5aa8"/></marker></defs>
+<rect width="100%" height="100%" fill="#f5f5f5"/>
+<line x1="120" y1="212" x2="120" y2="652" stroke="rgba(45,49,66,0.25)" stroke-width="1" stroke-dasharray="4,4"/>
+<line x1="360" y1="212" x2="360" y2="652" stroke="rgba(45,49,66,0.25)" stroke-width="1" stroke-dasharray="4,4"/>
+<line x1="640" y1="212" x2="640" y2="652" stroke="rgba(45,49,66,0.25)" stroke-width="1" stroke-dasharray="4,4"/>
+<line x1="900" y1="212" x2="900" y2="652" stroke="rgba(45,49,66,0.25)" stroke-width="1" stroke-dasharray="4,4"/>
+<line x1="1140" y1="212" x2="1140" y2="652" stroke="rgba(45,49,66,0.25)" stroke-width="1" stroke-dasharray="4,4"/>
+<path d="M 120,268 L 354,268" fill="none" stroke="#4f5d75" stroke-width="1.6" marker-end="url(#arrow)"/>
+<path d="M 360,312 L 634,312" fill="none" stroke="#4f5d75" stroke-width="1.6" marker-end="url(#arrow)"/>
+<path d="M 640,396 L 894,396" fill="none" stroke="#4f5d75" stroke-width="1.6" marker-end="url(#arrow)"/>
+<path d="M 900,428 L 646,428" fill="none" stroke="#4f5d75" stroke-width="1.6" stroke-dasharray="5,4" marker-end="url(#arrow)"/>
+<path d="M 640,472 L 1134,472" fill="none" stroke="#4f5d75" stroke-width="1.6" marker-end="url(#arrow)"/>
+<path d="M 1140,504 L 646,504" fill="none" stroke="#4f5d75" stroke-width="1.6" stroke-dasharray="5,4" marker-end="url(#arrow)"/>
+<path d="M 640,600 L 366,600" fill="none" stroke="#4f5d75" stroke-width="1.6" stroke-dasharray="5,4" marker-end="url(#arrow)"/>
+<path d="M 360,640 L 126,640" fill="none" stroke="#4f5d75" stroke-width="1.6" stroke-dasharray="5,4" marker-end="url(#arrow)"/>
+<rect x="125.0" y="245" width="224" height="18" rx="2" fill="#f5f5f5"/>
+<text x="237.0" y="258" fill="#4f5d75" font-size="12" font-weight="400" font-family="'Geist', sans-serif" text-anchor="middle">« Échanger mon permis… Vaud ? »</text>
+<rect x="403.0" y="289" width="188" height="18" rx="2" fill="#f5f5f5"/>
+<text x="497.0" y="302" fill="#4f5d75" font-size="12" font-weight="400" font-family="'Geist', sans-serif" text-anchor="middle">swiss_search · place: Vaud</text>
+<rect x="719.0" y="373" width="96" height="18" rx="2" fill="#f5f5f5"/>
+<text x="767.0" y="386" fill="#4f5d75" font-size="12" font-weight="400" font-family="'Geist', sans-serif" text-anchor="middle">the question</text>
+<rect x="709.0" y="405" width="128" height="18" rx="2" fill="#f5f5f5"/>
+<text x="773.0" y="418" fill="#4f5d75" font-size="12" font-weight="400" font-family="'Geist', sans-serif" text-anchor="middle">its search vector</text>
+<rect x="795.0" y="449" width="184" height="18" rx="2" fill="#f5f5f5"/>
+<text x="887.0" y="462" fill="#4f5d75" font-size="12" font-weight="400" font-family="'Geist', sans-serif" text-anchor="middle">search Vaud + Switzerland</text>
+<rect x="815.0" y="481" width="156" height="18" rx="2" fill="#f5f5f5"/>
+<text x="893.0" y="494" fill="#4f5d75" font-size="12" font-weight="400" font-family="'Geist', sans-serif" text-anchor="middle">30 candidate passages</text>
+<rect x="395.0" y="577" width="216" height="18" rx="2" fill="#f5f5f5"/>
+<text x="503.0" y="590" fill="#4f5d75" font-size="12" font-weight="400" font-family="'Geist', sans-serif" text-anchor="middle">results · vd.ch passage + link</text>
+<rect x="165.0" y="617" width="156" height="18" rx="2" fill="#f5f5f5"/>
+<text x="243.0" y="630" fill="#4f5d75" font-size="12" font-weight="400" font-family="'Geist', sans-serif" text-anchor="middle">answer, quoting vd.ch</text>
+<rect x="28" y="164" width="184" height="48" rx="6" fill="#f5f5f5"/><rect x="28" y="164" width="184" height="48" rx="6" fill="rgba(79,93,117,0.10)" stroke="#7a8399" stroke-width="1"/>
+<text x="120.0" y="193.0" fill="#2d3142" font-size="16" font-weight="600" font-family="'Geist', sans-serif" text-anchor="middle">You</text>
+<rect x="268" y="164" width="184" height="48" rx="6" fill="#f5f5f5"/><rect x="268" y="164" width="184" height="48" rx="6" fill="rgba(45,49,66,0.03)" stroke="rgba(45,49,66,0.30)" stroke-width="1"/>
+<text x="360.0" y="193.0" fill="#2d3142" font-size="16" font-weight="600" font-family="'Geist', sans-serif" text-anchor="middle">AI assistant</text>
+<rect x="548" y="164" width="184" height="48" rx="6" fill="#f5f5f5"/><rect x="548" y="164" width="184" height="48" rx="6" fill="rgba(213,43,30,0.08)" stroke="#d52b1e" stroke-width="1.6"/>
+<text x="640.0" y="193.0" fill="#2d3142" font-size="16" font-weight="600" font-family="'Geist', sans-serif" text-anchor="middle">Swiss Grounding</text>
+<rect x="808" y="164" width="184" height="48" rx="6" fill="#f5f5f5"/><rect x="808" y="164" width="184" height="48" rx="6" fill="rgba(45,49,66,0.03)" stroke="rgba(45,49,66,0.30)" stroke-width="1"/>
+<text x="900.0" y="193.0" fill="#2d3142" font-size="16" font-weight="600" font-family="'Geist', sans-serif" text-anchor="middle">OpenAI</text>
+<rect x="1048" y="164" width="184" height="48" rx="6" fill="#f5f5f5"/><rect x="1048" y="164" width="184" height="48" rx="6" fill="rgba(45,49,66,0.05)" stroke="#4f5d75" stroke-width="1"/>
+<text x="1140.0" y="193.0" fill="#2d3142" font-size="16" font-weight="600" font-family="'Geist', sans-serif" text-anchor="middle">Database</text>
+<rect x="652" y="328" width="232" height="32" rx="6" fill="#f5f5f5"/><rect x="652" y="328" width="232" height="32" rx="6" fill="#ffffff" stroke="#2d3142" stroke-width="1"/>
+<text x="664" y="349" fill="#2d3142" font-size="12" font-family="'Geist', sans-serif">1  finds the place: Vaud, Switzerland</text>
+<rect x="652" y="520" width="232" height="32" rx="6" fill="#f5f5f5"/><rect x="652" y="520" width="232" height="32" rx="6" fill="rgba(213,43,30,0.08)" stroke="#d52b1e" stroke-width="1.6"/>
+<text x="664" y="541" fill="#2d3142" font-size="12" font-family="'Geist', sans-serif">2  reranker scores; decides: answer</text>
+<text x="40" y="52" fill="#4f5d75" font-size="8" font-weight="500" font-family="'Geist Mono', monospace" text-anchor="start" letter-spacing="0.18em">SWISS GROUNDING · ONE QUESTION</text>
+<text x="40" y="100" fill="#2d3142" font-size="40" font-weight="400" font-family="'Instrument Serif', 'Noto Serif', serif" text-anchor="start">One question, end to end</text>
+<text x="40" y="132" fill="#4f5d75" font-size="16" font-weight="400" font-family="'Geist', sans-serif" text-anchor="start">Challenge question 2, from the user&#x27;s words to a cited answer.</text>
+<text x="40" y="692" fill="#7a8399" font-size="12" font-weight="400" font-family="'Geist', sans-serif" text-anchor="start">Run 3 corpus, 25 September 2026: the vd.ch pages come first, then ch.ch. Translation, when on, happens before the search.</text>
+</svg>
+  </main>
+</body>
+</html>

diff --git a/presentation/diagrams/README.md b/presentation/diagrams/README.md
@@ -28,3 +28,5 @@ Slides for the hackathon jury, 16:9 (2560×1440 PNG), plain language. Drop the P
 | 20 | [Keys and what they add](20-keys.png) |  |
 | 21 | [How we know it works](21-how-we-know.png) | yes |
 | 22 | [From clone to running server](22-quick-start.png) |  |
+| 23 | [Where it runs](23-deployment.png) |  |
+| 24 | [One question, end to end](24-end-to-end.png) |  |
